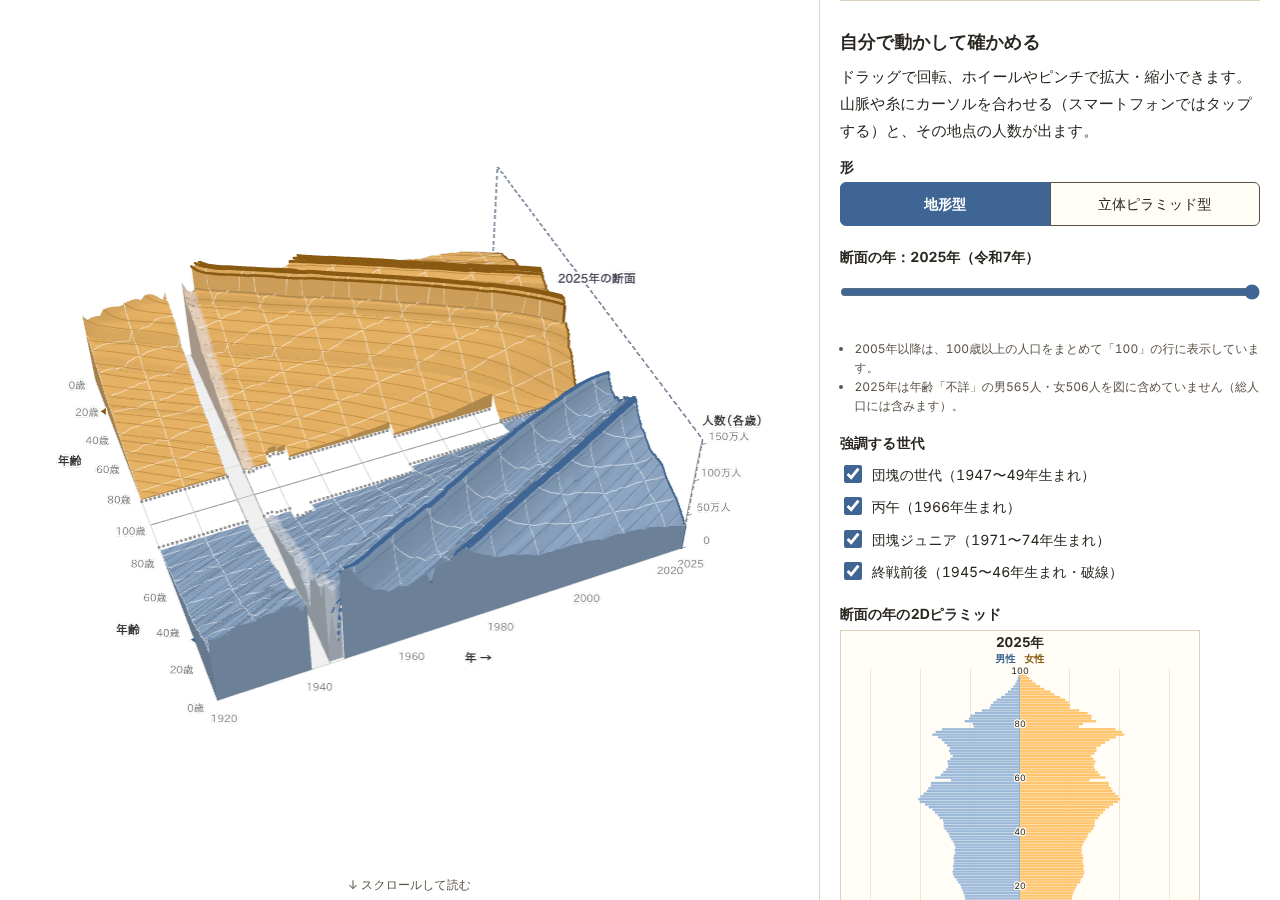
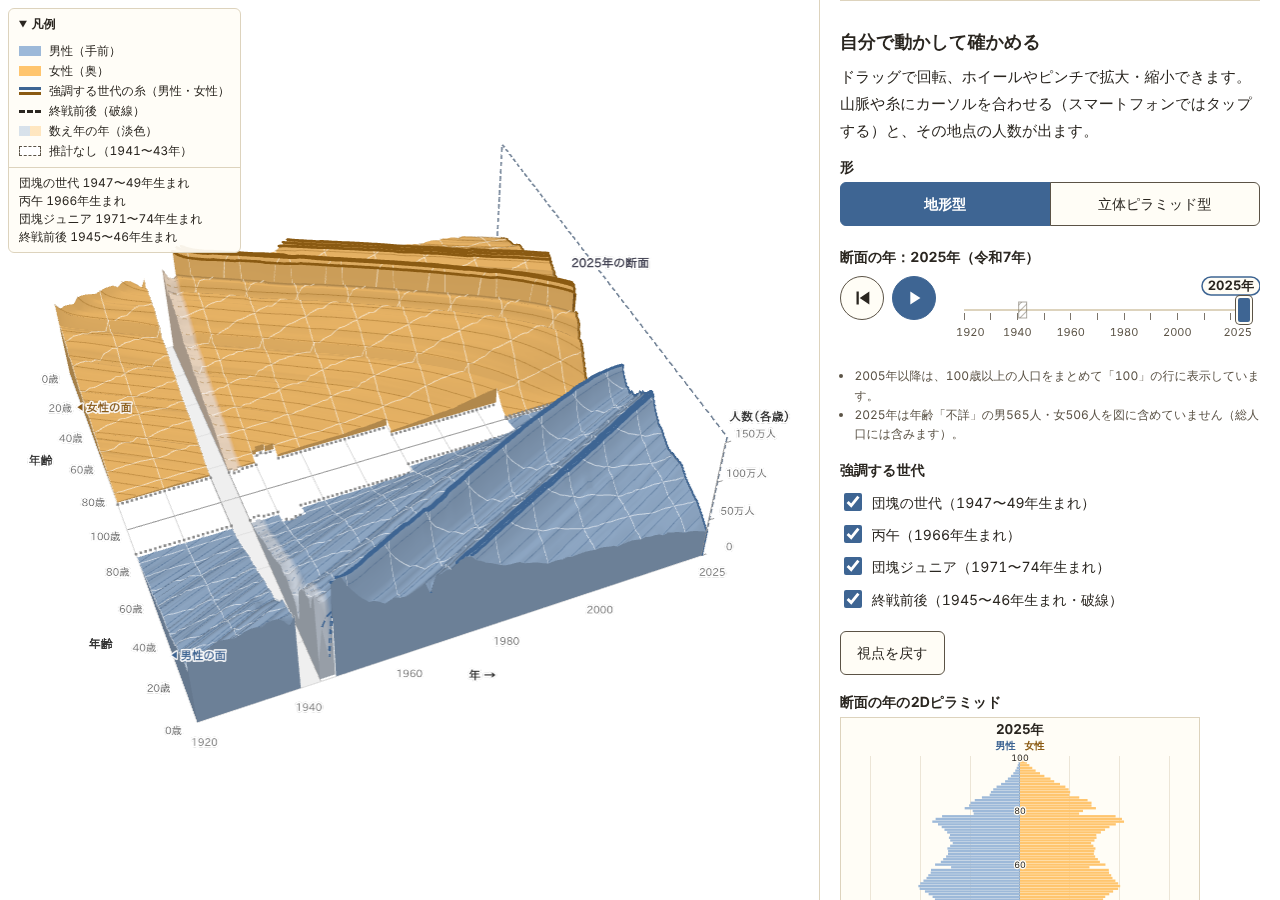
3Dページ：断面の年のスライダーを単年表示にし、再生ボタンを付ける
- トラックを左から塗らない一様なレールにし、年のラベル・目盛り・端の年・1941〜43年の網掛けで「1つの年を指す」見た目にした
- 再生・一時停止・巻き戻しを追加（1年400ms、データのない年は飛ばす、2025年で停止）
- E2E に再生・巻き戻し・停止条件・トラック非塗りの検査を追加

Claude-Session: https://claude.ai/code/session_01PEzRMk3itmbneTSnLhfQa4

diff --git a/js/mountain/ui.js b/js/mountain/ui.js
@@ -16,6 +16,65 @@ export function createFreeUI({ data, scene, inset, getStep, legend }) {
   let year = yearMax;
   let lastRaw = yearMax;
 
+  const SVGNS = "http://www.w3.org/2000/svg";
+  const ticks = $("cut-ticks");
+  const timelineBox = $("cut-timeline");
+  const playBtn = $("btn-cut-play");
+  const ICON_PLAY = '<svg viewBox="0 0 24 24" aria-hidden="true"><path d="M8 5v14l11-7z"/></svg>';
+  const ICON_PAUSE = '<svg viewBox="0 0 24 24" aria-hidden="true"><path d="M7 5h4v14H7zM13 5h4v14h-4z"/></svg>';
+  const RAIL_Y = 34; // スライダー（top 20px・高さ 28px）の中心
+  const THUMB_HALF = 16; // 余白 8px + つまみ幅の半分 8px
+  let width = 0;
+  let pill = null, pillText = null;
+  const el = (name, attrs, parent = ticks) => {
+    const e = document.createElementNS(SVGNS, name);
+    for (const [k, v] of Object.entries(attrs)) e.setAttribute(k, v);
+    parent.append(e);
+    return e;
+  };
+  const xOf = (y) => THUMB_HALF + ((y - yearMin) / (yearMax - yearMin)) * (width - 2 * THUMB_HALF);
+
+  // 左から塗らない一様なレール、目盛り、端の年、推計なしの網掛け。選んだ年はつまみとラベルで示す
+  function drawTimeline() {
+    width = timelineBox.clientWidth;
+    ticks.replaceChildren();
+    if (!width) return;
+    const unit = (width - 2 * THUMB_HALF) / (yearMax - yearMin);
+    const defs = el("defs", {});
+    const pat = el("pattern", { id: "cut-gap-hatch", width: 5, height: 5, patternUnits: "userSpaceOnUse", patternTransform: "rotate(45)" }, defs);
+    el("line", { x1: 0, x2: 0, y1: 0, y2: 5, class: "cut-hatch" }, pat);
+    el("line", { class: "cut-rail", x1: xOf(yearMin), x2: xOf(yearMax), y1: RAIL_Y, y2: RAIL_Y });
+    for (let y = yearMin; y <= yearMax; y++) {
+      if (gapOf(y)) continue;
+      const end = y === yearMin || y === yearMax;
+      if (y % 10 !== 0 && !end) continue;
+      el("line", { class: "cut-tick", x1: xOf(y), x2: xOf(y), y1: RAIL_Y + 3, y2: RAIL_Y + (y % 10 === 0 ? 10 : 7) });
+      const every = width < 420 ? 20 : 10;
+      const farFromEnds = xOf(y) - xOf(yearMin) >= 34 && xOf(yearMax) - xOf(y) >= 34;
+      if (end || (y % every === 0 && farFromEnds)) {
+        const t = el("text", { x: xOf(y), y: 60, "text-anchor": y === yearMin ? "start" : y === yearMax ? "end" : "middle" });
+        t.textContent = y;
+        if (y === yearMin) t.setAttribute("x", Math.max(0, xOf(y) - 8));
+        if (y === yearMax) t.setAttribute("x", Math.min(width, xOf(y) + 8));
+      }
+    }
+    for (const g of gaps) {
+      const x0 = xOf(g.start) - unit / 2, x1 = xOf(g.end) + unit / 2;
+      el("rect", { class: "cut-gap", x: x0, y: RAIL_Y - 8, width: x1 - x0, height: 16, fill: "url(#cut-gap-hatch)" });
+    }
+    pill = el("rect", { class: "cut-pill", y: 1, height: 18, rx: 9 });
+    pillText = el("text", { class: "cut-year-label", y: 14, "text-anchor": "middle" });
+    placeLabel();
+  }
+  function placeLabel() {
+    if (!pill || !width) return;
+    pillText.textContent = `${year}年`;
+    const w = 58;
+    const cx = Math.max(w / 2, Math.min(width - w / 2, xOf(year)));
+    pill.setAttribute("x", cx - w / 2); pill.setAttribute("width", w);
+    pillText.setAttribute("x", cx);
+  }
+
   slider.min = yearMin; slider.max = yearMax; slider.step = 1; slider.value = year;
 
   const gapOf = (y) => gaps.find((g) => y >= g.start && y <= g.end);
@@ -29,6 +88,7 @@ export function createFreeUI({ data, scene, inset, getStep, legend }) {
   function showYear(y, message = "") {
     year = y;
     slider.value = y;
+    placeLabel();
     const row = data.byYear.get(y);
     out.textContent = `${y}年（${wareki(row.refDate)}）`;
     slider.setAttribute("aria-valuetext", `${y}年${row.kazoe ? "（数え年）" : ""}`);
@@ -37,6 +97,50 @@ export function createFreeUI({ data, scene, inset, getStep, legend }) {
     renderTable(data, y);
     renderYearNotes(data, y);
   }
+
+  // ---- 再生 ----
+  const PLAY_MS = 400;
+  let playing = false;
+  let playTimer = 0;
+  function setPlaying(on) {
+    playing = on;
+    clearTimeout(playTimer);
+    playTimer = 0;
+    playBtn.innerHTML = on ? ICON_PAUSE : ICON_PLAY;
+    playBtn.setAttribute("aria-label", on ? "一時停止" : "再生");
+    out.setAttribute("aria-live", on ? "off" : "polite");
+    note.setAttribute("aria-live", on ? "off" : "polite");
+  }
+  function stop() { if (playing) setPlaying(false); }
+  function goto(y) {
+    showYear(y);
+    if (getStep() === "free") scene.setCutYear(y);
+  }
+  function tick() {
+    playTimer = 0;
+    if (!playing) return;
+    if (getStep() !== "free") { stop(); return; }
+    const next = resolve(year + 1, 1);
+    if (next > yearMax) { stop(); return; }
+    goto(next);
+    lastRaw = next;
+    if (next >= yearMax) stop();
+    else playTimer = setTimeout(tick, PLAY_MS);
+  }
+  function start() {
+    if (year >= yearMax) { goto(yearMin); lastRaw = yearMin; }
+    setPlaying(true);
+    playTimer = setTimeout(tick, PLAY_MS);
+  }
+  playBtn.addEventListener("click", () => { if (playing) stop(); else start(); });
+  $("btn-cut-rewind").addEventListener("click", () => {
+    stop();
+    if (pending) { pending = null; cancelAnimationFrame(raf); raf = 0; }
+    goto(yearMin);
+    lastRaw = yearMin;
+  });
+  document.addEventListener("visibilitychange", () => { if (document.hidden) stop(); });
+  setPlaying(false);
 
   function setCutFromUser(y, dir) {
     const r = resolve(y, dir);
@@ -56,6 +160,7 @@ export function createFreeUI({ data, scene, inset, getStep, legend }) {
     setCutFromUser(v, dir);
   };
   slider.addEventListener("input", () => {
+    stop();
     const v = Number(slider.value);
     const dir = v >= lastRaw ? 1 : -1;
     lastRaw = v; // ドラッグ中は生の値を持つ（全国ページの timeline.js と同じ）
@@ -64,7 +169,8 @@ export function createFreeUI({ data, scene, inset, getStep, legend }) {
   });
   slider.addEventListener("change", () => { if (raf) { cancelAnimationFrame(raf); flush(); } });
   // キー操作は現在値（解決後）からの±1なので、基準も現在値に合わせる
-  slider.addEventListener("keydown", () => { lastRaw = year; });
+  slider.addEventListener("keydown", () => { lastRaw = year; stop(); });
+  slider.addEventListener("pointerdown", stop);
 
   toggle.addEventListener("click", (e) => {
     const b = e.target.closest("button[data-form]");
@@ -86,10 +192,13 @@ export function createFreeUI({ data, scene, inset, getStep, legend }) {
   });
 
   $("data-details").addEventListener("toggle", () => renderTable(data, year));
+  drawTimeline();
+  new ResizeObserver(() => { if (timelineBox.clientWidth !== width) drawTimeline(); }).observe(timelineBox);
   showYear(year);
   return {
     attach(t) { tour = t; },
     getCut: () => year,
+    onStep(id) { if (id !== "free") stop(); },
     getHighlight: () => selected(),
     onForm(f) {
       toggle.querySelectorAll("button[data-form]").forEach((b) => b.setAttribute("aria-pressed", String(b.dataset.form === f)));

diff --git a/css/mountain.css b/css/mountain.css
@@ -44,7 +44,31 @@ body[data-step="free"] .scene-step[data-step="free"] { color: var(--ink); }
 .seg button:first-child { border-radius: 6px 0 0 6px; }
 .seg button:last-child { border-radius: 0 6px 6px 0; margin-left: -1px; }
 .seg button[aria-pressed="true"] { background: var(--male-strong); border-color: var(--male-strong); color: #fff; font-weight: 700; }
-#cut-slider { width: 100%; height: 32px; margin: 0; accent-color: var(--male-strong); cursor: pointer; }
+.cut-controls { display: flex; flex-wrap: wrap; align-items: flex-start; gap: 4px 12px; }
+.cut-timeline { position: relative; flex: 1 1 220px; min-width: 0; height: 66px; }
+.cut-timeline svg { position: absolute; left: 0; top: 0; width: 100%; height: 66px; pointer-events: none; display: block; }
+.cut-timeline text { fill: var(--muted); font-size: 11px; font-family: inherit; }
+.cut-timeline .cut-rail { stroke: var(--grid); stroke-width: 2; }
+.cut-timeline .cut-tick { stroke: var(--muted); stroke-opacity: .8; stroke-width: 1; shape-rendering: crispEdges; }
+.cut-timeline .cut-gap { stroke: var(--muted); stroke-opacity: .5; stroke-width: 1; }
+.cut-timeline .cut-hatch { stroke: var(--muted); stroke-opacity: .6; stroke-width: 1.5; }
+.cut-timeline .cut-pill { fill: #fffdf6; stroke: var(--male-strong); stroke-width: 1.5; }
+.cut-timeline .cut-year-label { fill: var(--ink); font-size: 13px; font-weight: 700; }
+#cut-slider {
+  position: absolute; left: 8px; top: 20px; width: calc(100% - 16px); height: 28px; margin: 0; padding: 0;
+  background: transparent; -webkit-appearance: none; appearance: none; cursor: pointer; accent-color: var(--male-strong);
+}
+#cut-slider::-webkit-slider-runnable-track { height: 28px; background: transparent; }
+#cut-slider::-moz-range-track { height: 28px; background: transparent; }
+#cut-slider::-moz-range-progress { background: transparent; }
+#cut-slider::-webkit-slider-thumb {
+  -webkit-appearance: none; appearance: none; width: 16px; height: 28px; border-radius: 4px;
+  background: var(--male-strong); border: 2px solid #fffdf6; box-shadow: 0 0 0 1px var(--muted);
+}
+#cut-slider::-moz-range-thumb {
+  width: 12px; height: 24px; border-radius: 4px; background: var(--male-strong);
+  border: 2px solid #fffdf6; box-shadow: 0 0 0 1px var(--muted);
+}
 
 .inset { width: 100%; max-width: 360px; background: #fffdf6; border: 1px solid var(--grid); }
 .inset-svg { display: block; width: 100%; height: auto; }

diff --git a/mountain.html b/mountain.html
@@ -100,8 +100,19 @@
             </div>
           </div>
           <div class="ctl-group">
-            <label class="ctl-label" for="cut-slider">断面の年：<output id="cut-year-out" for="cut-slider">2025年</output></label>
-            <input type="range" id="cut-slider" min="1920" max="2025" step="1" value="2025">
+            <label class="ctl-label" for="cut-slider">断面の年：<output id="cut-year-out" for="cut-slider" aria-live="polite">2025年</output></label>
+            <div class="cut-controls">
+              <div class="buttons">
+                <button type="button" id="btn-cut-rewind" class="btn" aria-label="最初に戻る">
+                  <svg viewBox="0 0 24 24" aria-hidden="true"><path d="M6 5h2.5v14H6zM20 5v14L9.5 12z"/></svg>
+                </button>
+                <button type="button" id="btn-cut-play" class="btn btn-primary" aria-label="再生"></button>
+              </div>
+              <div id="cut-timeline" class="cut-timeline">
+                <svg id="cut-ticks" aria-hidden="true" focusable="false"></svg>
+                <input type="range" id="cut-slider" min="1920" max="2025" step="1" value="2025">
+              </div>
+            </div>
             <p id="cut-note" class="ctl-note" aria-live="polite"></p>
             <ul id="year-notes" class="year-notes"></ul>
           </div>

diff --git a/js/mountain/tour.js b/js/mountain/tour.js
@@ -67,6 +67,7 @@ export function createTour({ scene, free, reducedMotion, legend }) {
     const s = STEPS[id];
     if (!s || id === current) return;
     clearTimeout(timer);
+    free.onStep?.(id);
     current = id;
     document.body.dataset.step = id;
     const cv = document.getElementById("mountain-canvas");

diff --git a/docs/MOUNTAIN.md b/docs/MOUNTAIN.md
@@ -76,6 +76,12 @@ Git の手順は docs/PLAN.md §5 と同じ。ブランチは `claude/sharp-newt
 - **free で使う UI**
   - 形の切り替え：`#form-toggle button[data-form]`（aria-pressed）
   - 断面のスライダー：`#cut-slider`。値は年で、1920〜2025。データのない年は全国ページと同じく、移動の向きで解決する。
+    - スライダーは「1つの年を指す針」に見せる。トラックは左から塗らない一様な線（accent-color や標準の塗りも使わない）にし、選んだ年はつまみと、その上の年のラベル（「1966年」）で示す。10年ごとの目盛り、端の年（1920・2025）、1941〜43年の網掛け（全国ページと同じ）を付ける。
+  - 再生：`#btn-cut-play`（aria-label「再生」／「一時停止」）と `#btn-cut-rewind`（「最初に戻る」）。見た目は全国ページと同じ。
+    - 再生中は1年400msで進め、データのない年は飛ばす。2025年で止めて「再生」に戻す。最終年で押したら1920年から始める。巻き戻しは1920年に戻して止める。
+    - 年が変わるたびに、断面・2D小窓・データ表（開いているときだけ）・注記・年のラベルを更新する。
+    - スライダーの操作、free 以外の段へのスクロール、タブが隠れたときに止める。再生中は年のラベルの aria-live を off にし、止めたら polite に戻す。
+    - reduced motion でも再生できる（変形やカメラの遷移はしない）。
   - 強調する世代の選択：`#cohort-select input[data-cohort]`
   - 断面の2D小窓：`#inset`。中は SVG で、棒は `rect.inset-bar[data-sex][data-age][data-value]`。
     - 小窓は全国ページと同じく、各年の `openAge` の段も棒（`.inset-open`、淡く描く）で出す。面（3D）には含めない。E2E は「openAge の段は `.inset-open` であること」を確かめる。
